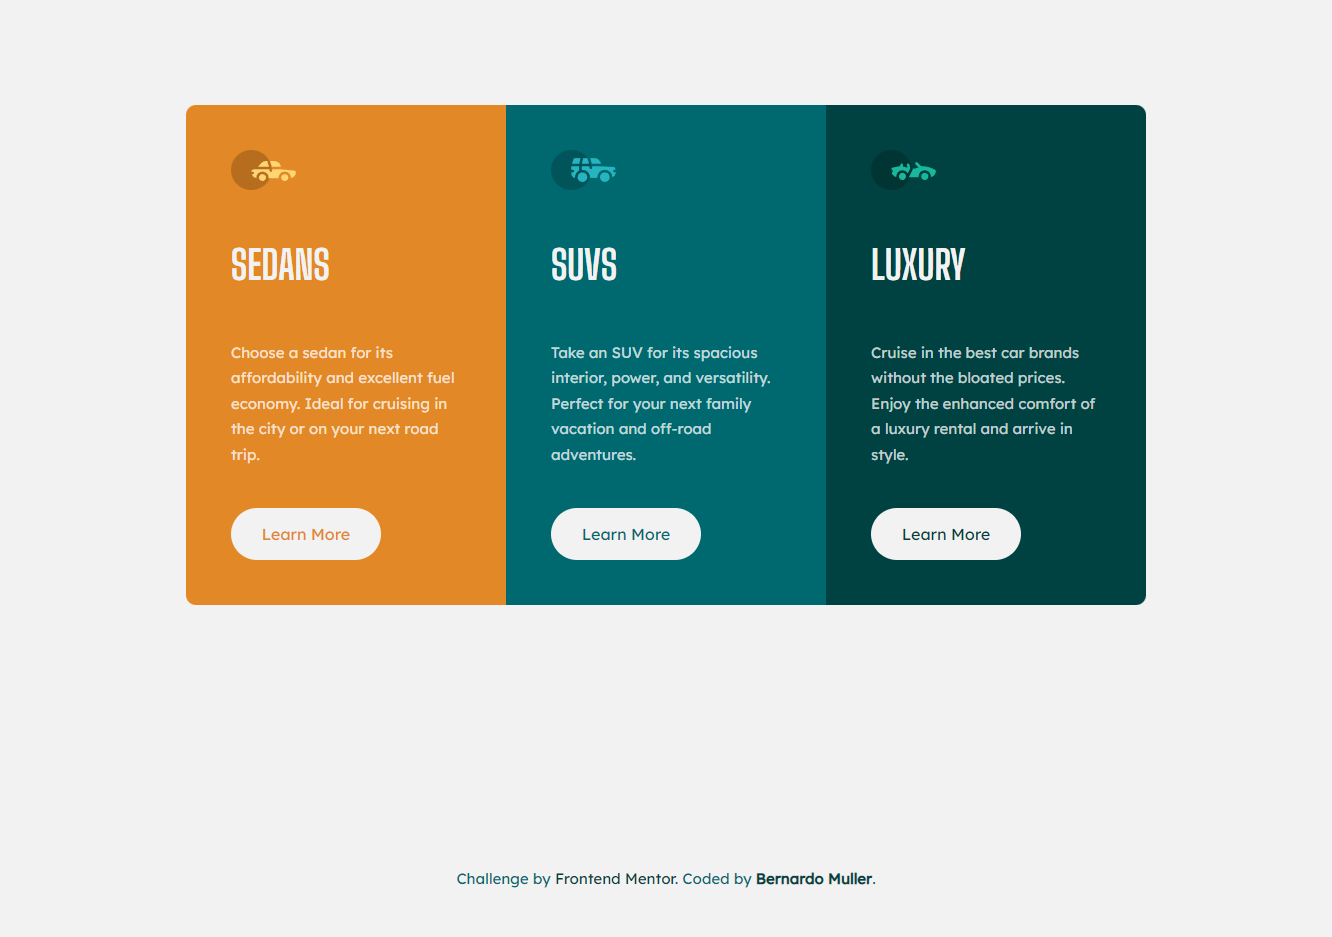
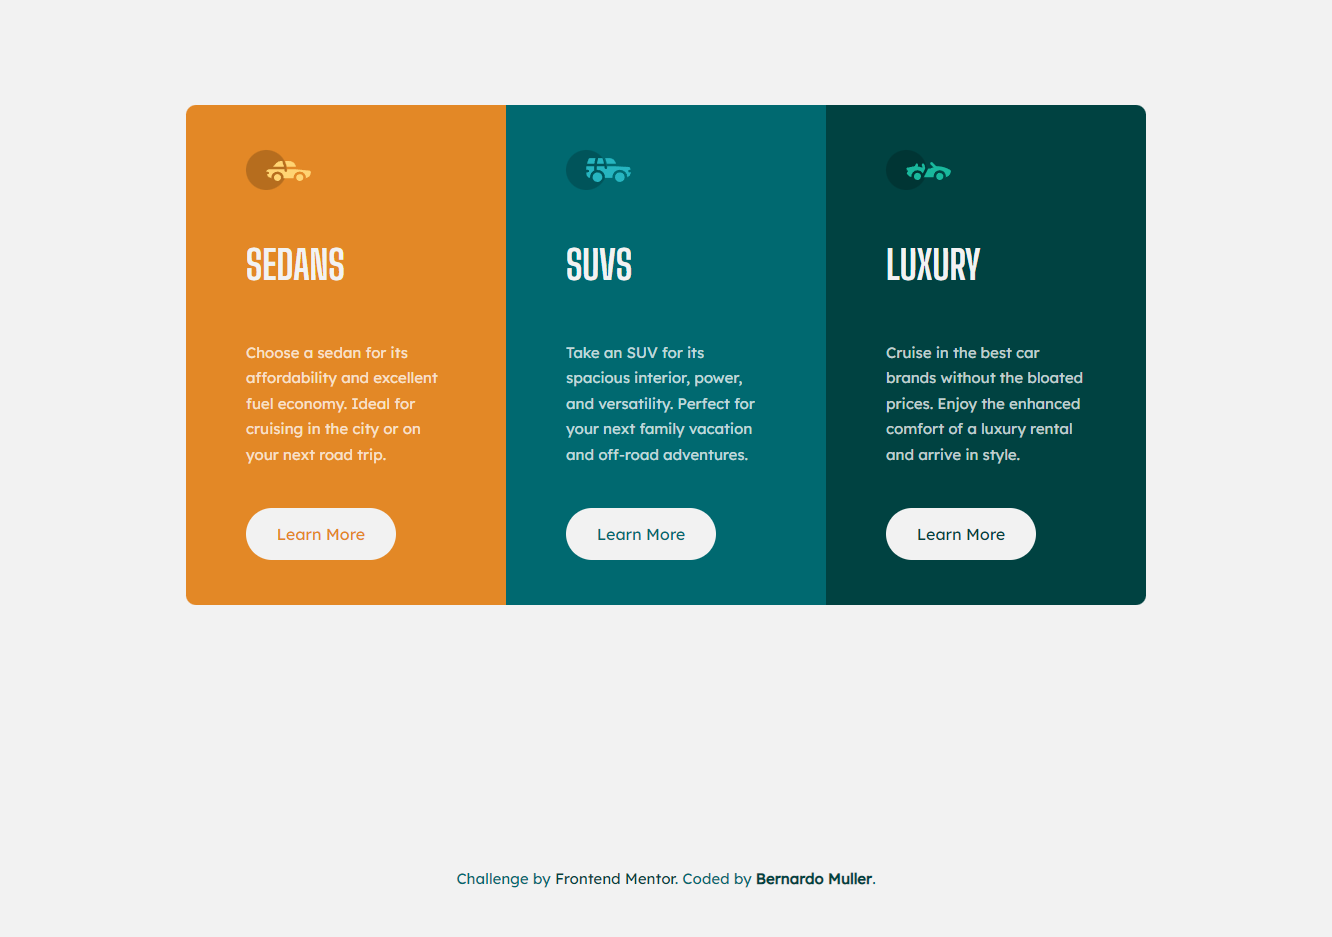
Add files via upload

diff --git a/style.css b/style.css
@@ -69,7 +69,7 @@ h1 {
     background-color: var(--Bright-orange);
     height: 450px;
     width: 320px;
-    padding: 3em;
+    padding: 3em 4em;
     display: flex;
     flex-direction: column;
     justify-content: space-between;
